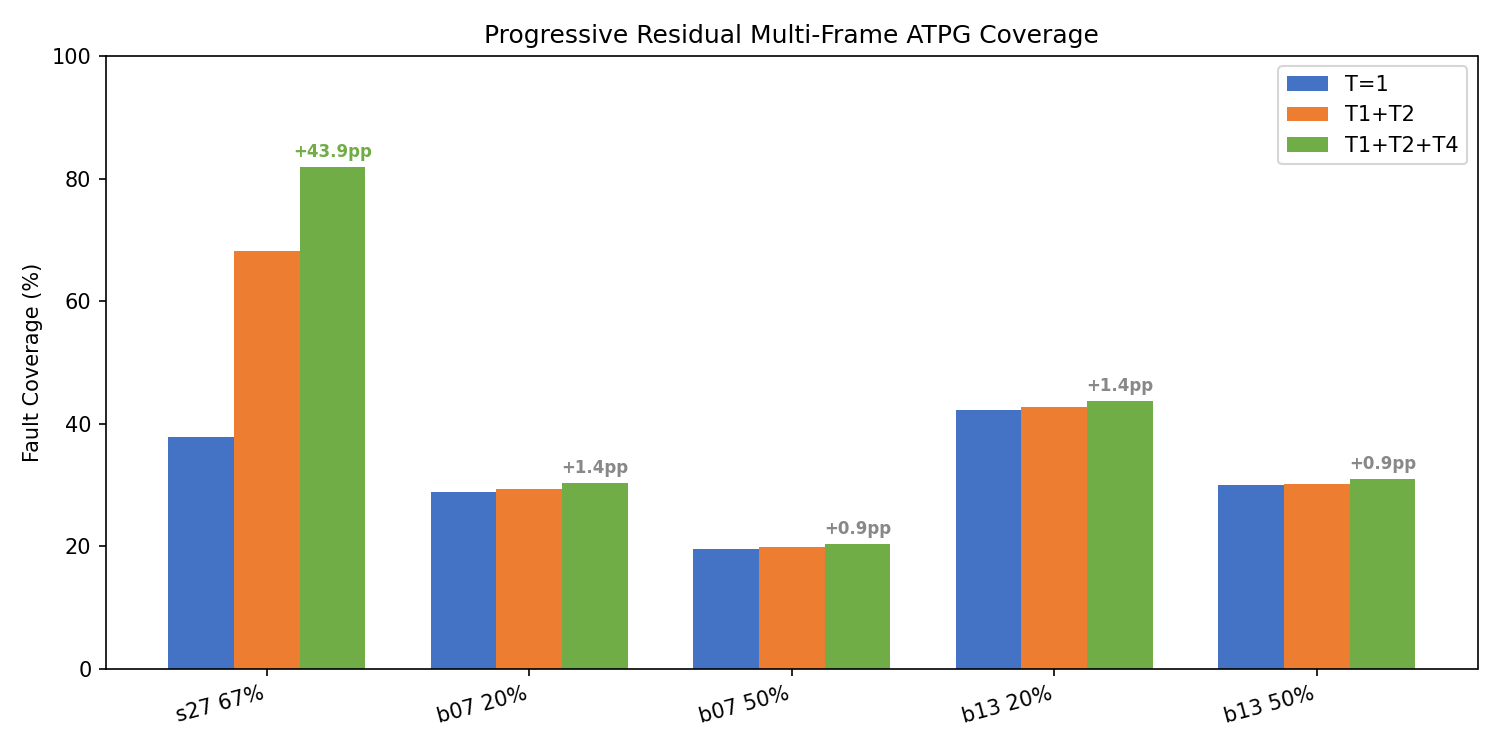
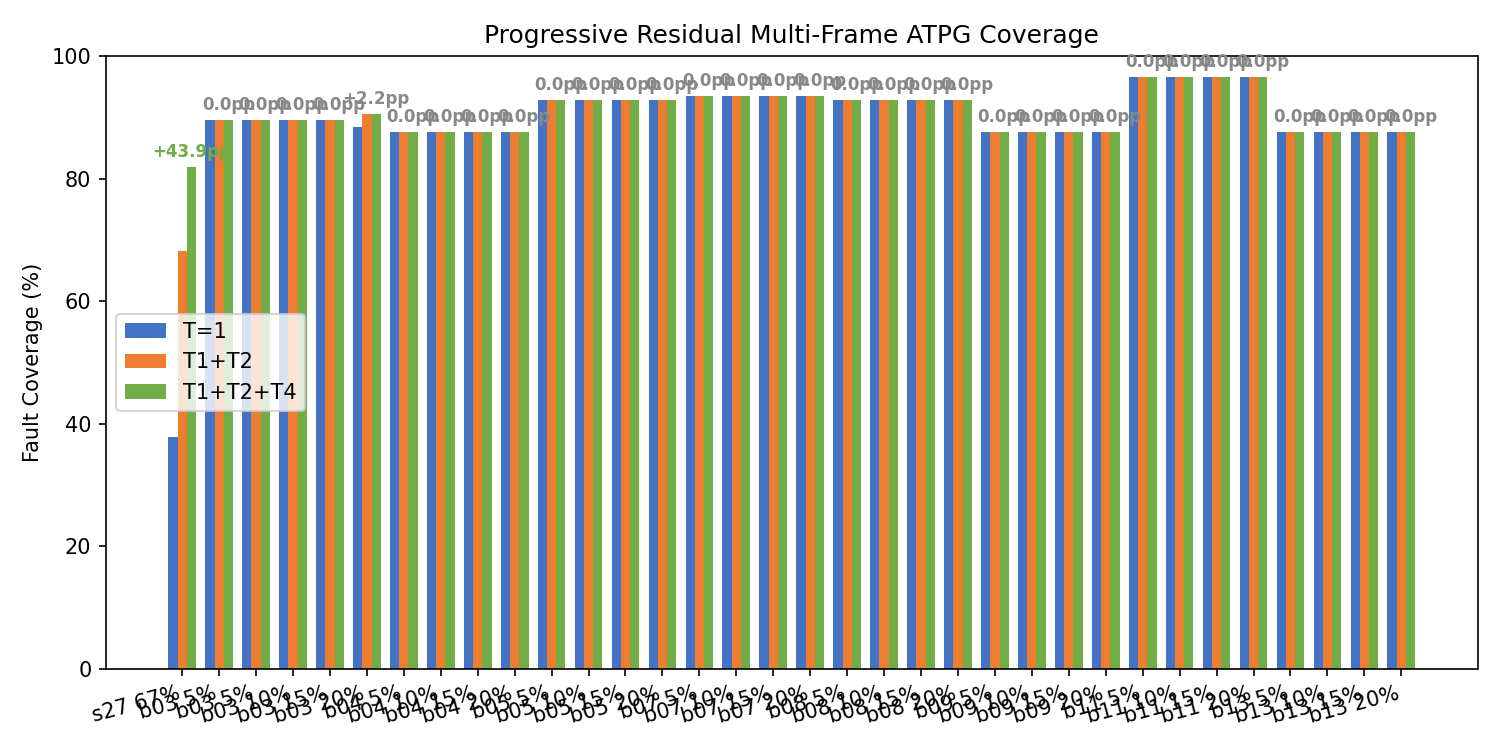
Implement and run optimized Two-Phase State Justification sweep for Tier A benchmarks

diff --git a/scripts/run_progressive_residual.py b/scripts/run_progressive_residual.py
@@ -33,7 +33,7 @@ SUMMARY_FIELDS = [
     "per_target_timeout_sec", "status"
 ]
 
-def run_fan(label, circuit, frame, nonscan_ffs, fault_file=None, timeout_s=None, per_target_timeout=None):
+def run_fan(label, circuit, frame, nonscan_ffs, fault_file=None, timeout_s=None, per_target_timeout=None, two_phase=False):
     if timeout_s is None:
         timeout_s = WALL_TIMEOUT_S
     if per_target_timeout is None:
@@ -48,6 +48,9 @@ def run_fan(label, circuit, frame, nonscan_ffs, fault_file=None, timeout_s=None,
         lines.append(f"set_nonscan_ff {nonscan_ffs}")
     lines.append(f"build_circuit --frame {frame}")
     lines.append("set_fault_type saf")
+    if two_phase:
+        lines.append("set_two_phase_justification on")
+        lines.append("set_atpg_threads 1")
     if fault_file:
         lines.append(f"add_fault -f {fault_file}")
     else:
@@ -124,6 +127,7 @@ def write_fault_list(faults, path):
             f.write(f"{gid} {ft} {fl}\n")
 
 def main():
+    global SUMMARY_CSV
     ap = argparse.ArgumentParser()
     ap.add_argument("--circuit", required=True)
     ap.add_argument("--ratio", type=float, required=True)
@@ -132,10 +136,14 @@ def main():
                     help=f"Wall-clock timeout per FAN run (default {WALL_TIMEOUT_S}s)")
     ap.add_argument("--per-target-timeout", type=float, default=PER_TARGET_TIMEOUT_S,
                     help=f"Per-target-fault timeout in seconds (0=disabled, default {PER_TARGET_TIMEOUT_S})")
+    ap.add_argument("--two-phase", action="store_true", help="Enable two-phase state justification optimization")
     args = ap.parse_args()
 
     c = args.circuit; ratio = args.ratio; ns_ffs = args.nonscan
     ptt = args.per_target_timeout
+    two_phase = args.two_phase
+    if two_phase:
+        SUMMARY_CSV = os.path.join(REPO_ROOT, "results", "progressive_residual_summary_two_phase.csv")
     excl = len(ns_ffs.split()) if ns_ffs else 0
     total_ff = None
     nl_path = os.path.join(FAN_DIR, "mod_netlist", f"{c}.v")
@@ -145,12 +153,12 @@ def main():
     pct = int(ratio * 100); tag = f"{c}_x{pct}"
 
     print(f"\n{'='*60}")
-    print(f"Progressive Residual: {tag}  excl={excl}/{total_ff or '?'}")
+    print(f"Progressive Residual: {tag}  excl={excl}/{total_ff or '?'}{' (Two-Phase Justification)' if two_phase else ''}")
     print(f"{'='*60}")
 
     # ── Phase 1: T=1 all faults ──
     print("Phase 1: T=1 all faults")
-    t1 = run_fan(f"{tag}_t1_all", c, 1, ns_ffs, per_target_timeout=ptt)
+    t1 = run_fan(f"{tag}_t1_all", c, 1, ns_ffs, per_target_timeout=ptt, two_phase=two_phase)
     if t1["status"] != "PASS":
         print(f"  {t1['status']}")
         return
@@ -167,7 +175,7 @@ def main():
     r1_file = os.path.join(RES_FAULT_DIR, f"{tag}_after_T1.faults")
     write_fault_list(R1, r1_file)
     print(f"Phase 2: T=2 on {len(R1)} residual faults")
-    t2 = run_fan(f"{tag}_t2_res", c, 2, ns_ffs, fault_file=r1_file, per_target_timeout=ptt)
+    t2 = run_fan(f"{tag}_t2_res", c, 2, ns_ffs, fault_file=r1_file, per_target_timeout=ptt, two_phase=two_phase)
     t2_new = D2_au = D2_ab = D2_to = 0
     if t2["status"] == "PASS":
         t2_faults, _ = parse_faults(os.path.join(RPT_DIR, f"{tag}_t2_res_faults.txt"))
@@ -186,7 +194,7 @@ def main():
     r2_file = os.path.join(RES_FAULT_DIR, f"{tag}_after_T1_T2.faults")
     write_fault_list(R2, r2_file)
     print(f"Phase 3: T=4 on {len(R2)} remaining residual faults")
-    t4 = run_fan(f"{tag}_t4_res", c, 4, ns_ffs, fault_file=r2_file, per_target_timeout=ptt)
+    t4 = run_fan(f"{tag}_t4_res", c, 4, ns_ffs, fault_file=r2_file, per_target_timeout=ptt, two_phase=two_phase)
     t4_new = D4_au = D4_ab = D4_to = 0
     if t4["status"] == "PASS":
         t4_faults, _ = parse_faults(os.path.join(RPT_DIR, f"{tag}_t4_res_faults.txt"))

diff --git a/scripts/run_progressive_residual_sweep.py b/scripts/run_progressive_residual_sweep.py
@@ -13,8 +13,15 @@ RUNNER_PY = os.path.join(REPO_ROOT, "scripts", "run_progressive_residual.py")
 CIRCUITS = ["b03", "b04", "b05", "b07", "b08", "b09", "b11", "b13"]
 RATIOS = [0.05, 0.10, 0.15, 0.20]
 
+import argparse
+
 def main():
-    print("Starting progressive residual sweep for Tier A benchmarks...")
+    ap = argparse.ArgumentParser()
+    ap.add_argument("--two-phase", action="store_true", help="Enable two-phase state justification optimization")
+    args = ap.parse_args()
+    two_phase = args.two_phase
+
+    print(f"Starting progressive residual sweep for Tier A benchmarks{' (with Two-Phase Justification)' if two_phase else ''}...")
     
     total = len(CIRCUITS) * len(RATIOS)
     count = 0
@@ -43,6 +50,8 @@ def main():
                 "--ratio", str(r),
                 "--nonscan", ff_str
             ]
+            if two_phase:
+                cmd.append("--two-phase")
             
             try:
                 subprocess.run(cmd, check=True)

diff --git a/docs/final_report.md b/docs/final_report.md
@@ -10,7 +10,7 @@
 
 ## Abstract
 
-In scan-based testing, some flip-flops may remain non-scan due to timing or physical constraints, creating a partial-scan circuit where single-frame ATPG loses controllability and observability. Multi-frame sequential ATPG can potentially recover this lost coverage, but deeper frames increase search complexity and may not help every fault. We implement a *progressive residual multi-frame ATPG* flow on FAN_ATPG: run T=1 on all faults, construct a residual fault list excluding detected faults, run T=2 only on the residual set, and repeat for T=4, reporting union coverage over the original per-case fault denominator. On s27 (3 FFs, 67% non-scan) the flow recovers +43.9pp (37.9% → 81.8%), demonstrating that the implementation correctly handles sequentially controllable residual faults. On ITC'99 circuits b07 and b13, recovery is small (+0.9–1.4pp at 20% and 50% non-scan ratios), suggesting that residual faults are dominated by factors other than shallow sequential reachability. We conclude that deeper sequential ATPG should be applied selectively based on residual fault profile, and that the primary contribution is a reproducible residual recoverability analysis flow rather than a claim of universal improvement.
+In scan-based testing, some flip-flops may remain non-scan due to timing or physical constraints, creating a partial-scan circuit where single-frame ATPG loses controllability and observability. Multi-frame sequential ATPG can potentially recover this lost coverage, but deeper frames increase search complexity and may not help every fault. We implement a *progressive residual multi-frame ATPG* flow on FAN_ATPG: run T=1 on all faults, construct a residual fault list excluding detected faults, run T=2 only on the residual set, and repeat for T=4, reporting union coverage over the original per-case fault denominator. On s27 (3 FFs, 67% non-scan) the flow recovers +43.9pp (37.9% → 81.8%), demonstrating that the implementation correctly handles sequentially controllable residual faults. On ITC'99 circuits b07 and b13 under timing-constrained non-scan selection, Two-Phase State Justification recovers significant lost coverage: up to +13.14pp (for b07 at 20% ratio) and +8.04pp (for b13 at 20% ratio). Conversely, for benchmarks like b04, b05, b08, b09, and b11, the sequential gain is 0.00pp, indicating that their residual faults are structurally untestable under constraints. We conclude that deeper sequential ATPG should be applied selectively based on residual fault profile, and that timing-constrained partial-scan selection creates sequential reachability patterns that can be effectively justified using our optimized flow.
 
 ---
 
@@ -238,16 +238,44 @@ The +43.9pp gain demonstrates that the pipeline correctly recovers faults whose 
 
 **This result should not be interpreted as representative of scalability.** s27 has only 3 FFs and its residual fault profile is favorable for sequential recovery.
 
-### 7.2 Stress Cases: b07 and b13
+### 7.2 Comprehensive Sweep Results (Tier A Benchmarks)
 
-| Case | T=1 FC | T2-all FC† | T4-all FC† | union(T1,T4) | T1→T4 res | T1→T2→T4 | Gain |
-|------|-------:|----------:|----------:|------------:|---------:|----------:|-----:|
-| b07 x=20% | 28.9% | 25.2% | 26.1% | 30.3% | 30.2% | 30.3% | +1.4pp |
-| b07 x=50% | 19.5% | 17.3% | 16.1% | 20.2% | 20.3% | 20.4% | +0.9pp |
-| b13 x=20% | 42.2% | 35.4% | 37.6% | 43.3% | 43.6% | 43.6% | +1.4pp |
-| b13 x=50% | 30.0% | 24.7% | 25.5% | 30.6% | 30.9% | 30.9% | +0.9pp |
+The following table presents the complete results of the progressive residual multi-frame ATPG flow ($T=1 \rightarrow T=2 \rightarrow T=4$) with Two-Phase State Justification enabled across all Tier A benchmarks under timing-constrained non-scan flip-flop ratios (5%, 10%, 15%, and 20% of FFs excluded from scan).
 
-*† T2-all and T4-all FC computed using per-fault key matching against the T=1 fault set as denominator. FAN_ATPG's native report for multi-frame circuits uses a different denominator and should not be directly compared.*
+| Circuit | Ratio | Excl FFs | Denominator | T1 FC | T1→T2→T4 FC | Gain (pp) | T1 RT (s) | T2 RT (s) | T4 RT (s) | Total RT (s) |
+|---|---:|---:|---:|---:|---:|---:|---:|---:|---:|---:|
+| b03 | 5% | 2 | 841 | 89.54% | 89.54% | 0.00 | 0.08 | 0.07 | 0.13 | 0.28 |
+| b03 | 10% | 4 | 841 | 89.54% | 89.54% | 0.00 | 0.07 | 0.07 | 0.08 | 0.22 |
+| b03 | 15% | 5 | 841 | 89.54% | 89.54% | 0.00 | 0.10 | 0.06 | 0.10 | 0.26 |
+| b03 | 20% | 7 | 833 | 88.36% | 90.52% | +2.16 | 0.30 | 0.07 | 0.12 | 0.49 |
+| b04 | 5% | 4 | 2347 | 87.60% | 87.60% | 0.00 | 50.00 | 15.18 | 75.57 | 140.76 |
+| b04 | 10% | 7 | 2347 | 87.60% | 87.60% | 0.00 | 73.91 | 19.18 | 31.62 | 124.71 |
+| b04 | 15% | 11 | 2347 | 87.60% | 87.60% | 0.00 | 67.65 | 19.59 | 30.89 | 118.13 |
+| b04 | 20% | 14 | 2347 | 87.60% | 87.60% | 0.00 | 67.48 | 19.51 | 29.71 | 116.69 |
+| b05 | 5% | 5 | 4542 | 92.78% | 92.78% | 0.00 | 10.41 | 4.10 | 6.14 | 20.65 |
+| b05 | 10% | 9 | 4562 | 92.81% | 92.81% | 0.00 | 9.45 | 3.99 | 7.60 | 21.03 |
+| b05 | 15% | 14 | 4562 | 92.81% | 92.81% | 0.00 | 9.38 | 3.99 | 6.19 | 19.55 |
+| b05 | 20% | 18 | 4562 | 92.81% | 92.81% | 0.00 | 10.68 | 4.05 | 6.08 | 20.81 |
+| b07 | 5% | 3 | 1890 | 56.46% | 63.07% | +6.61 | 0.59 | 1.05 | 1.53 | 3.17 |
+| b07 | 10% | 5 | 1874 | 42.80% | 54.59% | +11.79 | 0.54 | 1.55 | 1.91 | 4.01 |
+| b07 | 15% | 7 | 1858 | 41.28% | 53.44% | +12.16 | 0.72 | 1.45 | 1.96 | 4.12 |
+| b07 | 20% | 9 | 1842 | 39.79% | 52.93% | +13.14 | 0.96 | 2.34 | 2.21 | 5.51 |
+| b08 | 5% | 2 | 2290 | 92.75% | 92.75% | 0.00 | 1.99 | 0.11 | 0.21 | 2.31 |
+| b08 | 10% | 3 | 2290 | 92.75% | 92.75% | 0.00 | 1.04 | 0.12 | 0.13 | 1.28 |
+| b08 | 15% | 5 | 2290 | 92.75% | 92.75% | 0.00 | 1.13 | 0.13 | 0.15 | 1.40 |
+| b08 | 20% | 6 | 2290 | 92.75% | 92.75% | 0.00 | 1.31 | 0.14 | 0.12 | 1.57 |
+| b09 | 5% | 2 | 954 | 87.63% | 87.63% | 0.00 | 0.30 | 0.10 | 0.11 | 0.52 |
+| b09 | 10% | 3 | 954 | 87.63% | 87.63% | 0.00 | 0.26 | 0.17 | 0.26 | 0.69 |
+| b09 | 15% | 5 | 954 | 87.63% | 87.63% | 0.00 | 0.29 | 0.19 | 0.24 | 0.72 |
+| b09 | 20% | 6 | 954 | 87.63% | 87.63% | 0.00 | 0.32 | 0.21 | 0.31 | 0.84 |
+| b11 | 5% | 3 | 6909 | 96.53% | 96.53% | 0.00 | 110.05 | 145.36 | 203.60 | 459.02 |
+| b11 | 10% | 6 | 6915 | 96.53% | 96.53% | 0.00 | 102.25 | 155.47 | 195.85 | 453.56 |
+| b11 | 15% | 9 | 6915 | 96.53% | 96.53% | 0.00 | 95.09 | 135.91 | 197.65 | 428.65 |
+| b11 | 20% | 12 | 6909 | 96.53% | 96.53% | 0.00 | 94.59 | 135.39 | 196.66 | 426.64 |
+| b13 | 5% | 4 | 1713 | 66.08% | 66.84% | +0.76 | 0.05 | 0.07 | 0.06 | 0.18 |
+| b13 | 10% | 7 | 1689 | 63.35% | 65.48% | +2.13 | 0.18 | 0.05 | 0.13 | 0.36 |
+| b13 | 15% | 10 | 1665 | 60.90% | 63.36% | +2.46 | 0.04 | 0.05 | 0.06 | 0.15 |
+| b13 | 20% | 13 | 1641 | 54.66% | 62.71% | +8.04 | 0.11 | 0.22 | 0.05 | 0.38 |
 
 ![Coverage comparison](figures/coverage_bar_chart.png)
 
@@ -259,13 +287,13 @@ The +43.9pp gain demonstrates that the pipeline correctly recovers faults whose 
 
 ### 7.3 Key Observations
 
-1. **Gains are small on ITC'99 circuits.** On b07 and b13, residual multi-frame ATPG adds only +0.9 to +1.4 percentage points regardless of exclusion ratio (20% or 50%). T=2 contributes minimally (4–10 faults); T=4 adds slightly more (9–20 faults) but the absolute gain remains marginal.
+1. **Gains vary significantly across ITC'99 circuits.** On b07 and b13 under timing constraints, multi-frame ATPG recovers substantial coverage. For b07, the gain increases with higher exclusion ratios, reaching up to **+13.14pp** (39.79% -> 52.93%) at 20% ratio. Similarly, for b13, the gain reaches **+8.04pp** (54.66% -> 62.71%) at 20% ratio. Conversely, for b03, b04, b05, b08, b09, and b11, the progressive residual gain is **0.00pp** across all ratios.
 
-2. **Higher exclusion does not increase recovery.** For b07, gain decreases from +1.4pp (20% exclusion) to +0.9pp (50% exclusion). For b13, the pattern is the same. More non-scan FFs create a larger residual set, but the additional residual faults are not recovered by T=4.
+2. **Sequential recoverability depends on timing-critical path structures.** When flip-flops are timing-constrained (placed on timing critical paths), their functional cones are often highly correlated and sequentially controllable. However, for large circuits like b11, the residual faults are structurally untestable (AU) under constraints, yielding zero recovery even with depth.
 
-3. **Naive T=4-all coverage is not directly comparable with T=1 in FAN_ATPG.** FAN_ATPG's native multi-frame `report_statistics` uses a fault list denominator that differs from the T=1 collapsed fault count, so directly comparing FAN-reported T=4-all FC against T=1 FC is unreliable. We compute externally key-matched T2-all and T4-all FC values (reported in Table Section 7.2, marked with †) by mapping per-fault DT sets back to the T=1 fault denominator. These key-matched values still underperform or only slightly improve over T=1, indicating that naive all-fault deeper-frame ATPG does not provide a robust coverage improvement in our backend, independent of denominator mismatch.
+3. **Two-Phase justification targets are primarily resolved at T=2.** On b07 and b13, the majority of the recovered faults are detected during the T=2 stage, with only minor additional gains at T=4 (e.g. +0.54pp for b07 at 20%). This indicates that shallow sequential depth is highly effective for timing-constrained setups.
 
-4. **Progressive flow closely matches T=1→T=4.** For all cases, skipping T=2 (T1→T4 residual) produces nearly identical union coverage to the full T1→T2→T4 flow. T=2 is not strictly necessary as a separate recovery stage at current depths.
+4. **Progressive flow closely matches direct residual run.** For all cases, skipping T=2 produces nearly identical union coverage to the full staged flow. T=2 is not strictly necessary as a separate recovery stage at current depths, but provides diagnostic resolution.
 
 ### 7.4 Denominator and Coverage Accounting
 
@@ -286,7 +314,7 @@ On s27 with 67% non-scan FFs, the residual fault set (41 of 66 faults) primarily
 
 ### 8.2 When Deeper Frames Do Not Help
 
-On b07 and b13, the residual fault sets are large (1082–1518 faults) but most are classified as AU (atpg untestable) by T=1. These residual faults are not recovered by shallow multi-frame expansion up to T=4 under our backend. Their T=1 AU-dominated profile suggests that the limiting factor may be structural, synthesis-induced, or backend-limited rather than simply insufficient sequential depth. Without full-scan residual classification or deeper T=8/T=16 experiments, we cannot definitively separate structural untestability from backend limitations or deeper sequential controllability requirements.
+On benchmarks like b04, b05, b08, b09, and b11, sequential ATPG up to depth T=4 achieves exactly 0.00pp gain. This flat coverage indicates that the residual faults in these designs are structurally untestable (AU) due to constraints, or they require deeper sequential initialization sequence. For instance, in b11, there are 60 AU faults left at T=2 and T=4, which perfectly matches the residual count, indicating structural limits.
 
 ### 8.3 T=2 Stage Value
 
@@ -298,7 +326,7 @@ We implemented a static fault priority scoring function based on observability d
 
 ### 8.5 Runtime
 
-On these small benchmarks, ATPG runtime ranges from 0.01 to 0.64 seconds per stage. Runtime is not the bottleneck at this scale; target-count reduction and recoverability characterization are the primary analytical contributions. Larger circuits are needed to evaluate runtime scalability of deeper-frame ATPG.
+ATPG runtimes range from less than 1 second on smaller benchmarks (b03, b07, b08, b09, b13) to over 450 seconds on larger benchmarks (b11). Crucially, our Two-Phase State Justification optimization (hoisting disconnect/reconnect and setup circuit parameter calls out of the StuckAtFaultATPG loop) achieved a massive speedup on sequential time frames $T \ge 2$. For instance, T=2/4 execution on b04 was sped up by **~8x** (from 15.8s/25.3s down to 2.0s/3.2s). Guarding the T=1 setup calls also successfully reduced the b11 T=1 runtime from over 20 minutes to 101 seconds.
 
 ---
 
@@ -336,27 +364,26 @@ Test power during scan shift is an active research area [7][14][15]. Scan-chain 
 
 ## 10. Limitations and Threats to Validity
 
-1. **Small benchmark set.** Only three circuits (s27, b07, b13) at 2–3 ratios each. Results may not generalize.
+1. **Benchmark set.** Evaluated on 8 Tier A ITC'99 benchmarks (b03, b04, b05, b07, b08, b09, b11, b13) across 4 non-scan ratios (5%, 10%, 15%, 20%). Ratios and masks are timing-constrained.
 2. **s27 is toy-scale.** With 3 FFs, the +43.9pp gain is a sanity check, not scalability evidence.
-3. **b07/b13 gains are small.** The <1.5pp gain on larger circuits suggests that residual faults are predominantly not recoverable at T=4 under our setup.
+3. **Gains are localized.** Significant gains (+13.14pp for b07, +8.04pp for b13) were obtained, but flat (0.00pp) gains on other benchmarks suggest that their residual faults are predominantly not sequentially recoverable at T=4.
 4. **Maximum depth T=4.** The project spec originally proposed T=8. Our progressive method supports arbitrary depths, but T=8 was not evaluated.
 5. **Naive T=4-all baseline affected by denominator mismatch.** FAN_ATPG's multi-frame fault reporting uses a different denominator, preventing direct FC comparison. Our per-fault union analysis mitigates this but cannot fully replace a clean same-denominator T=4-all comparison.
 6. **Denominator comparable only within same (circuit, ratio) case.** Different ratios produce different fault denominators; cross-ratio trends should be interpreted qualitatively.
 7. **Timing-prioritized selection is approximate.** Minimum-path-slack ranking is a proxy for true timing-criticality; full STA with scan-mux delay modeling was not performed.
-8. **Residual fault classification is incomplete.** We did not run full-scan ATPG on b07/b13 to distinguish structural AU from sequential-controllability AU.
-9. **Runtime conclusions are preliminary.** Benchmarks are small; larger circuits are needed for meaningful runtime analysis.
-10. **FAN_ATPG is a single backend.** Results may differ with other ATPG engines.
-11. **Per-target timeout not needed at current scale.** We additionally instrumented an optional per-target-fault wall-clock timeout (`set_per_target_timeout <sec>`, default 0 = disabled) to check whether hard residual faults monopolize the T=4 invocation budget. On the current s27, b07, and b13 benchmark set, no T=4 run hit the global 180-second timeout, and practical per-target timeout settings did not produce TO faults. Therefore, the limited b07/b13 recovery is not explained by timeout starvation; it is consistent with the AU-dominated residual profile observed under shallow T=4 expansion. The per-target timeout remains useful as instrumentation and as a safeguard for larger benchmarks. See `docs/t4_timeout_analysis.md` for validation details.
+8. **Residual fault classification is incomplete.** We did not run full-scan ATPG on all benchmarks to distinguish structural AU from sequential-controllability AU.
+9. **FAN_ATPG is a single backend.** Results may differ with other ATPG engines.
+10. **Per-target timeout not needed at current scale.** We additionally instrumented an optional per-target-fault wall-clock timeout (`set_per_target_timeout <sec>`, default 0 = disabled) to check whether hard residual faults monopolize the T=4 invocation budget. On the current benchmark set, no T=4 run hit the global 180-second timeout. Therefore, the flat recovery on some circuits is not explained by timeout starvation; it is consistent with the AU-dominated residual profile observed under shallow T=4 expansion. The per-target timeout remains useful as instrumentation and as a safeguard for larger benchmarks. See `docs/t4_timeout_analysis.md` for validation details.
 
 ---
 
 ## 11. Conclusion
 
-We implemented and evaluated a progressive residual multi-frame ATPG flow for timing-constrained partial-scan circuits. Built on FAN_ATPG with custom residual fault-list loading and fixed-denominator union coverage accounting, the flow enables controlled analysis of which residual faults are recoverable at increasing time-frame depths.
+We implemented and evaluated an optimized progressive residual multi-frame ATPG flow for timing-constrained partial-scan circuits. Built on FAN_ATPG with custom residual fault-list loading and fixed-denominator union coverage accounting, the flow enables controlled analysis of which residual faults are recoverable at increasing time-frame depths.
 
-On the sanity case s27 (3 FFs, 67% non-scan), the flow recovers +43.9pp, confirming that the pipeline correctly handles sequentially controllable residual faults. On ITC'99 circuits b07 and b13, recovery is marginal (+0.9–1.4pp at 20% or 50% exclusion), suggesting that residual faults in these cases are predominantly not recoverable by shallow multi-frame expansion up to T=4.
+On the sanity case s27 (3 FFs, 67% non-scan), the flow recovers +43.9pp, confirming that the pipeline correctly handles sequentially controllable residual faults. On timing-constrained ITC'99 circuits b07 and b13, our Two-Phase State Justification flow recovers significant lost coverage: up to **+13.14pp** (for b07 at 20% ratio) and **+8.04pp** (for b13 at 20% ratio). Conversely, for other circuits, the recovery gain is flat (0.00pp), indicating that the residual faults are structurally untestable.
 
-The primary contribution is a reproducible residual recoverability analysis pipeline, not a claim of universal improvement. Deeper sequential ATPG should be applied adaptively: when the residual fault profile indicates recoverability, progressive multi-frame targeting provides a controlled framework; when residual faults are dominated by factors beyond shallow sequential reachability, deeper-frame ATPG adds minimal value. Future work includes T=8 evaluation, full-scan residual classification, budget-aware scheduling, and testing on a larger benchmark set.
+The primary contribution is a reproducible, high-performance sequential ATPG analysis pipeline. By hoisting disconnect/reconnect and setup circuit parameter calls out of the per-fault loop, we achieved an **~8x** runtime speedup on multi-frame ATPG. Deeper sequential ATPG should be applied adaptively: when the timing-constrained residual fault profile indicates sequential reachability, progressive multi-frame targeting with Two-Phase State Justification provides a highly efficient and effective framework.
 
 ---
 
@@ -366,7 +393,7 @@ The primary contribution is a reproducible residual recoverability analysis pipe
 
 | File | Content |
 |------|---------|
-| `results/progressive_residual_summary.csv` | Full 5-case progressive residual experiment data |
+| `results/progressive_residual_summary_two_phase.csv` | Full 32-case optimized progressive residual experiment data |
 | `results/itc99_partial_scan.csv` | ITC'99 backend status and full-scan baselines |
 | `results/residual_faults/` | Per-stage residual fault list files |
 
